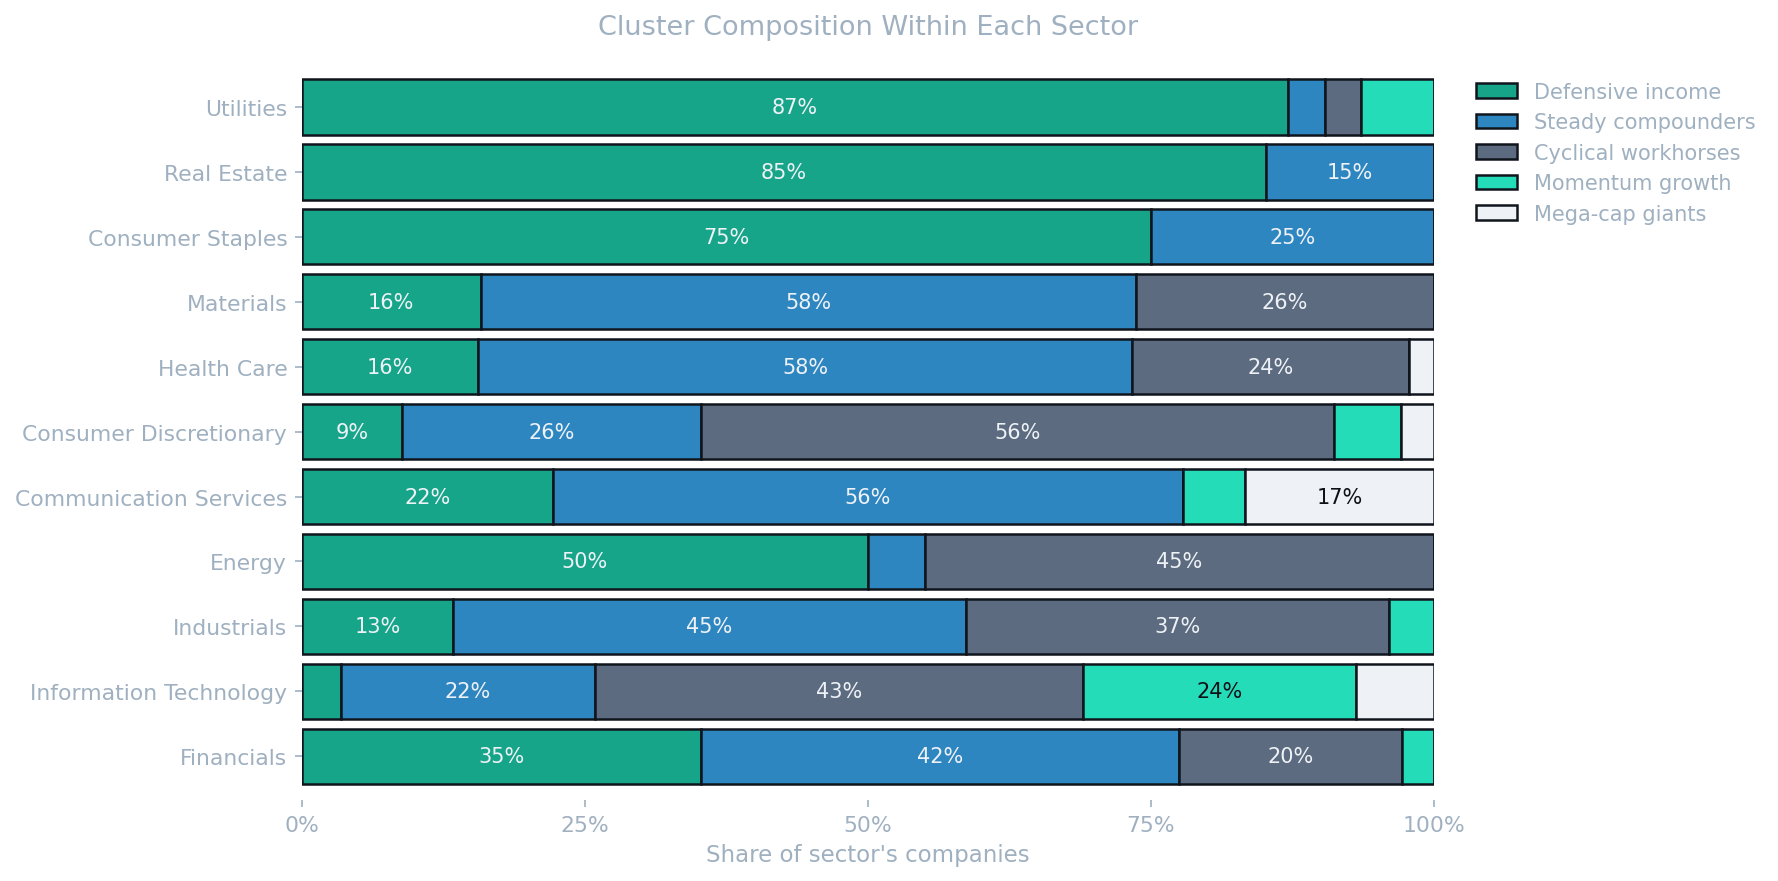
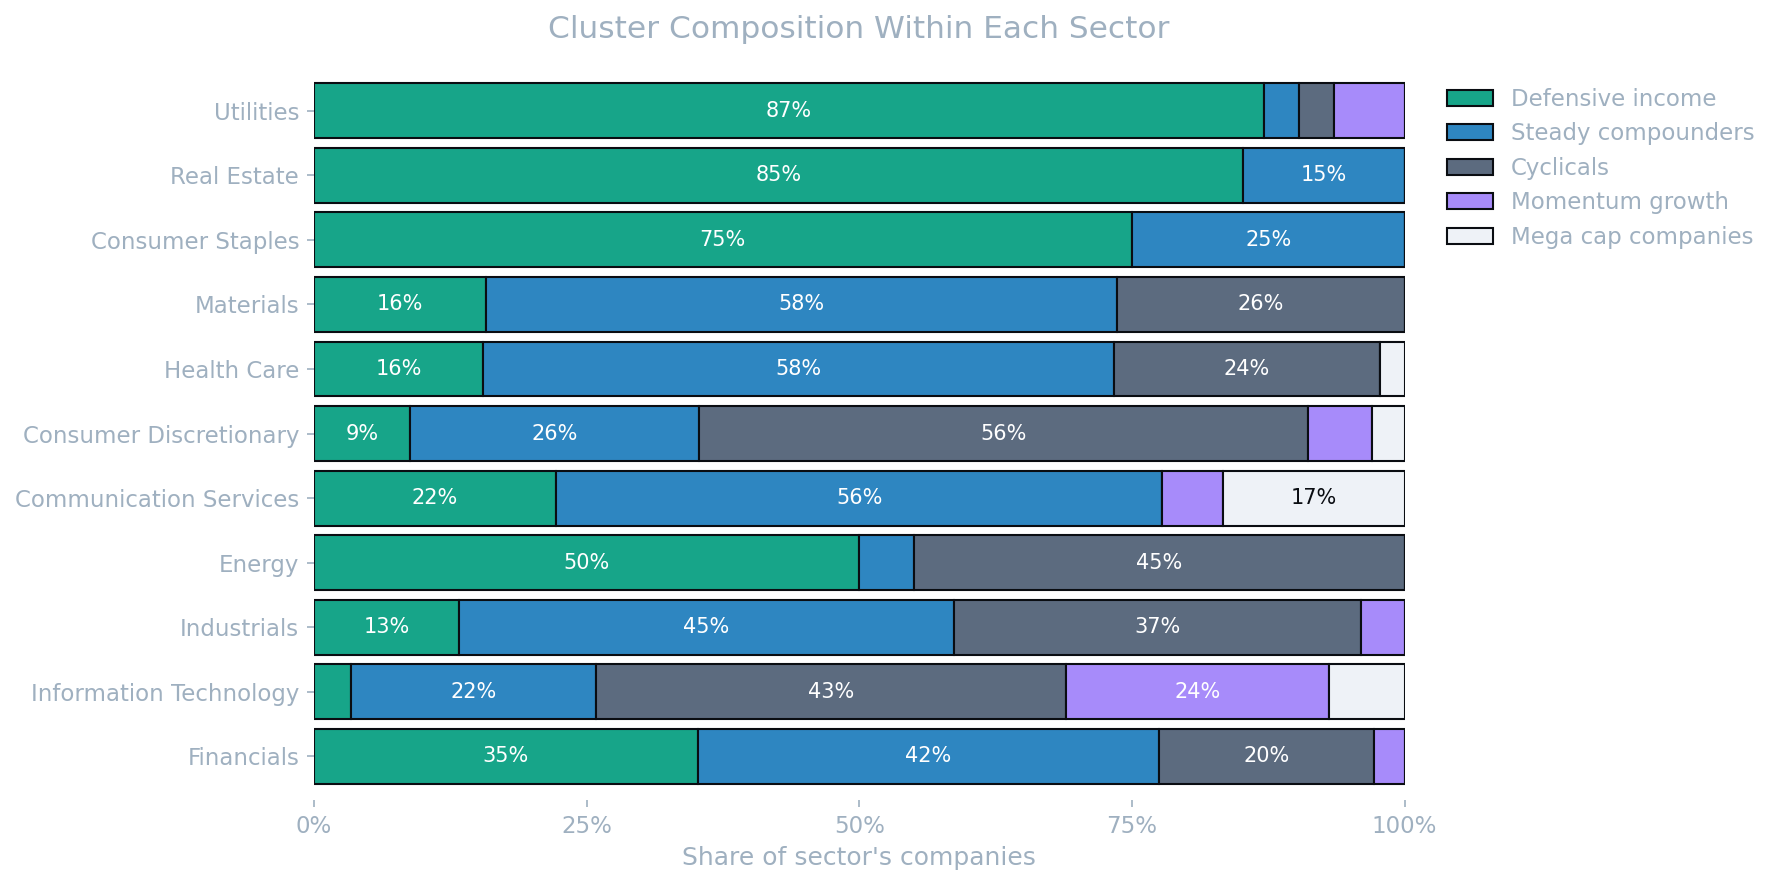
project 3: results finding 3 rewritten (momentum = IT/AI story, descriptive), sector chart restyled — legend matches table naming, momentum recoloured violet

Changed region(s): [[0.0, 0.0, 0.9899, 0.9807], [0.1547, 0.9194, 0.1856, 0.9501]]

diff --git a/_posts/2026-07-06-clustering-the-sp500-by-market-behaviour.md b/_posts/2026-07-06-clustering-the-sp500-by-market-behaviour.md
@@ -52,11 +52,11 @@ The scaling choice is the first thing to revisit — min-max compresses heavy-ta
 
 The model finds **five behavioural groups** — three findings stand out:
 
-**Some sectors have behavioural consistency.** **87% of Utilities**, **85% of Real Estate** and **75% of Consumer Staples** companies land in the same cluster — a low-beta, high-dividend, low-volatility group that behaves exactly like the defensive reputation of those sectors. Their label genuinely tells you how they trade.
+**Some sectors have behavioural consistency.** **87% of Utilities**, **85% of Real Estate** and **75% of Consumer Staples** companies land in the same cluster — the Defensive Income group that aligns exactly with the conservative reputation of those sectors. Their label genuinely tells you how they trade.
 
 **But across the whole index, the labels are only half-right.** Just **55% of companies** sit in their sector's most common behavioural group. Information Technology is the sharpest example: its biggest slice (43%) doesn't behave like "tech" at all — it trades alongside the economy-linked cyclicals — while the rest scatters across all four other groups. Two stocks with the same tech label can sit in completely different behavioural worlds.
 
-**The market has a momentum tribe that ignores sector lines.** A cluster of 24 companies averaged a **+76% return in 2025** at more than double the market's volatility and a beta of 2.0. Tesla, Oracle, Palantir, AMD and Micron sit in it — but so do power utilities riding the AI build-out (Constellation, Vistra), crypto-adjacent finance (Coinbase, Robinhood) and data-centre industrials (Vertiv). Behaviour, not sector, is what these stocks share.
+**The momentum growth cluster is predominantly a technology story.** More than half of its members carry the Information Technology label — chipmakers and semiconductor-equipment names like AMD and Micron alongside AI-linked software such as Oracle and Palantir. And the companies that join them from other sectors read like the same theme wearing a different label: power utilities feeding the data-centre build-out (Constellation, Vistra), industrials fitting out server halls (Vertiv), and high-beta platforms like Tesla, Coinbase and Robinhood. The model only ever saw behaviour, so this is an observation rather than an explanation — but the group's make-up lines up naturally with 2025's AI-driven growth, and that is the working assumption for why these stocks moved together.
 
 | Cluster | Character | Companies | Return | Div. yield | Beta | Rev. growth | P/E ratio | Profit margin |
 |---|---|---|---|---|---|---|---|---|